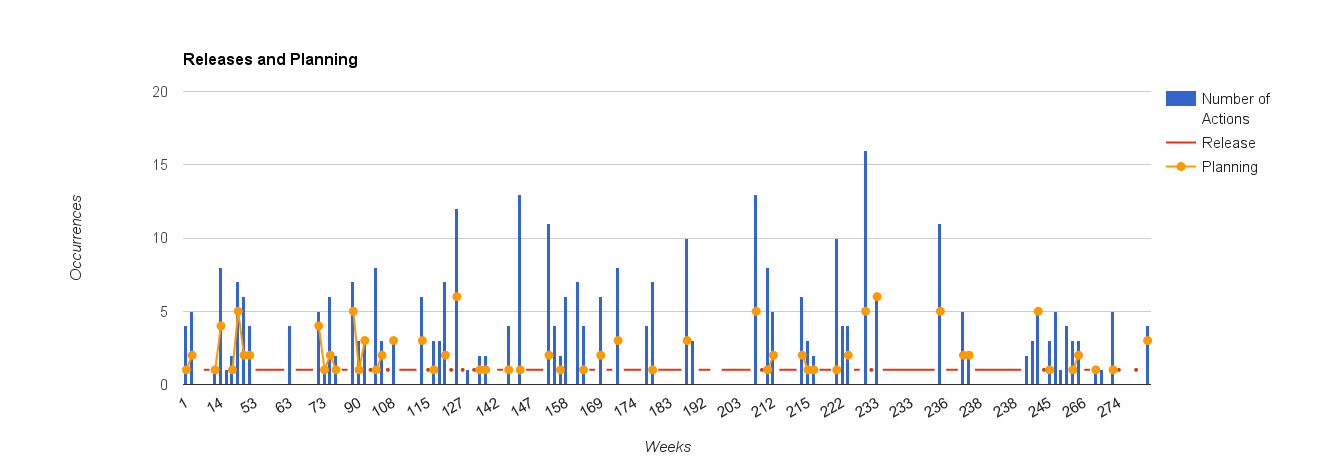
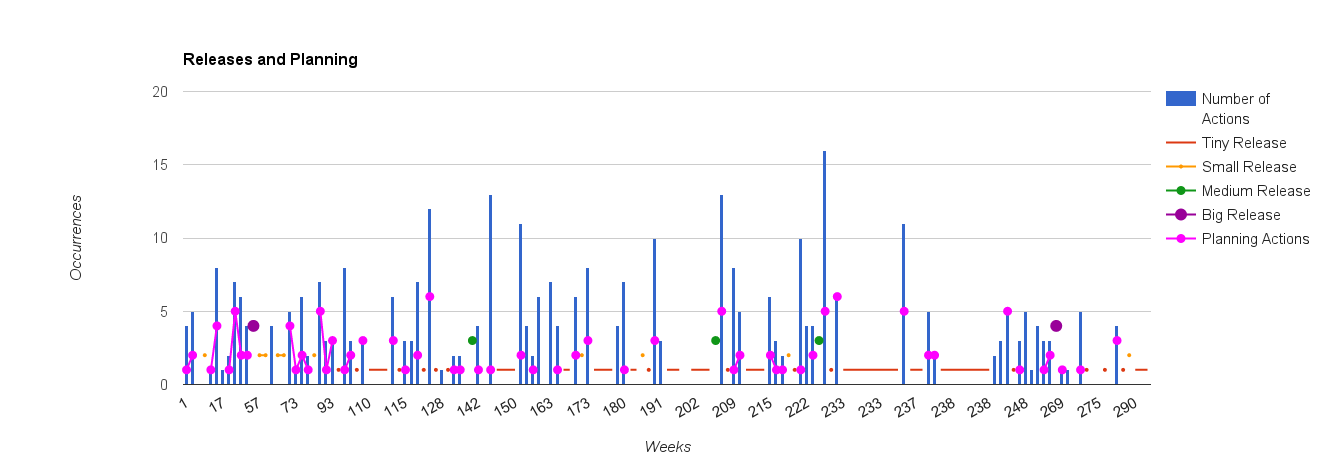
Added correlation and trend bugfix

diff --git a/results.tex b/results.tex
@@ -417,11 +417,26 @@ The team thought that it was a good sign that the team were able to do strategic
 When we presented the team to our results in terms of organizational learning the assumptions they had was as expected. They use the term of direct causes as single-loop and root causes as double-loop, but we will continue using the terms of single-loop and double-loop. They expected that single-loop would have the most occurrences, even though they maintained a double-loop focus during the retrospectives. This expectation is reflects our results quite well as 66 percent were single-loop and 25 percent double-loop. The reason they expected it to be more single-loop rather than double-loop was that it was easier to do single-loop and as one team member said: ``...sometimes things just need to be fixed''. 
 
 \subsubsection{Development Phase}
-The results from the content analysis were quite different from the team expectation in the context of which development phase the actions were related. The team expected that build and documentation would be the two biggest actions. The content analysis revealed that planning was the biggest followed by testing, development and documentation. The team thought this made sense as most of the planning is directed towards process improvement and they do focus on process during the retrospective. The team speculated if the releases might have a correlations with planning actions coming right after. \todo{Correlation release planning and release actions}. It was also again mentioned that actions might not be created even though they were discussed as actions already existed and that they had not been completed. 
+The results from the content analysis were quite different from the team expectation in the context of which development phase the actions were related. The team expected that build and documentation would be the two biggest actions. The content analysis revealed that planning was the biggest followed by testing, development and documentation. The team thought this made sense as most of the planning is directed towards process improvement and they do focus on process during the retrospective. The team speculated if the releases might have a correlations with planning actions coming right after. It was also again mentioned that actions might not be created even though they were discussed as actions already existed and that they had not been completed. 
 
 The team expected build to be the phase that occurred most. It was a surprise that it was not better represented within the actions as it felt that it was discussed often on retrospectives. One of the members said that the lack of actions specific for builds might be the reason while it was discussed during retrospectives and that they might focus on creating more actions related to the builds. 
 
 We asked the team if there were any categories they missed from the development phase analysis and two were mentioned. The first one was hotfix which the team often mentioned during the feedback session. The second one was flow as to how the development of the product progressed. For future similar analyses this should be taken into considerations. 
 
+After the visit to the team we took the time to create a chart showing releases against the number of actions and planning actions as displayed in \autoref{figure:releases-and-planning}. These results provided intersting data. As can be seen in \autoref{figure:releases-and-planning} the releases does not have any impact on either the amount of the planning actions or number of actions in total. This is interesting as the team themselves expected there to be a correlation and reasoning thoughts would have expected the same. 
+
+\begin{sidewaysfigure}[!h]
+	\centering
+	\includegraphics[width=\textwidth, keepaspectratio]{figures/releases-and-planning.png}
+	\caption{Correlation between release and planning actions}
+	\label{figure:releases-and-planning}
+\end{sidewaysfigure}
+\afterpage{\clearpage}
+
 \subsubsection{Collaboration}
 For the collaboration the team expected communication to be the category with the most actions. If you disregard the undefined actions which was the biggest in terms of collaboration the teams expectation was correct. We asked if they could explain what kind of communication that were discussed most during the retrospectives. They said that communication between the different stages of the development and more oral communication rather than written was the kinds of communications that were discussed the most. As for the other categories the team had no special feedback. 
+
+\subsubsection{Trend: Bugfix}
+When we presented the bugfix trend to the team they were surprised that we had identified it as a trend. The surprise came as a result that they had found a way to work with the bugs. Having dedicated bug-days was a practice that had been implemented and used for the last year which the team found very helpful. As can been seen from \autoref{figure:bugfix} the amount of actions still continue to increase after the implementation of the bug-day. When inquired by this the team told us that even though the bug-day worked very well, they still wanted to improve and that was why the actions still was increasing. 
+
+\subsubsection{Trend: Scenario Template}
